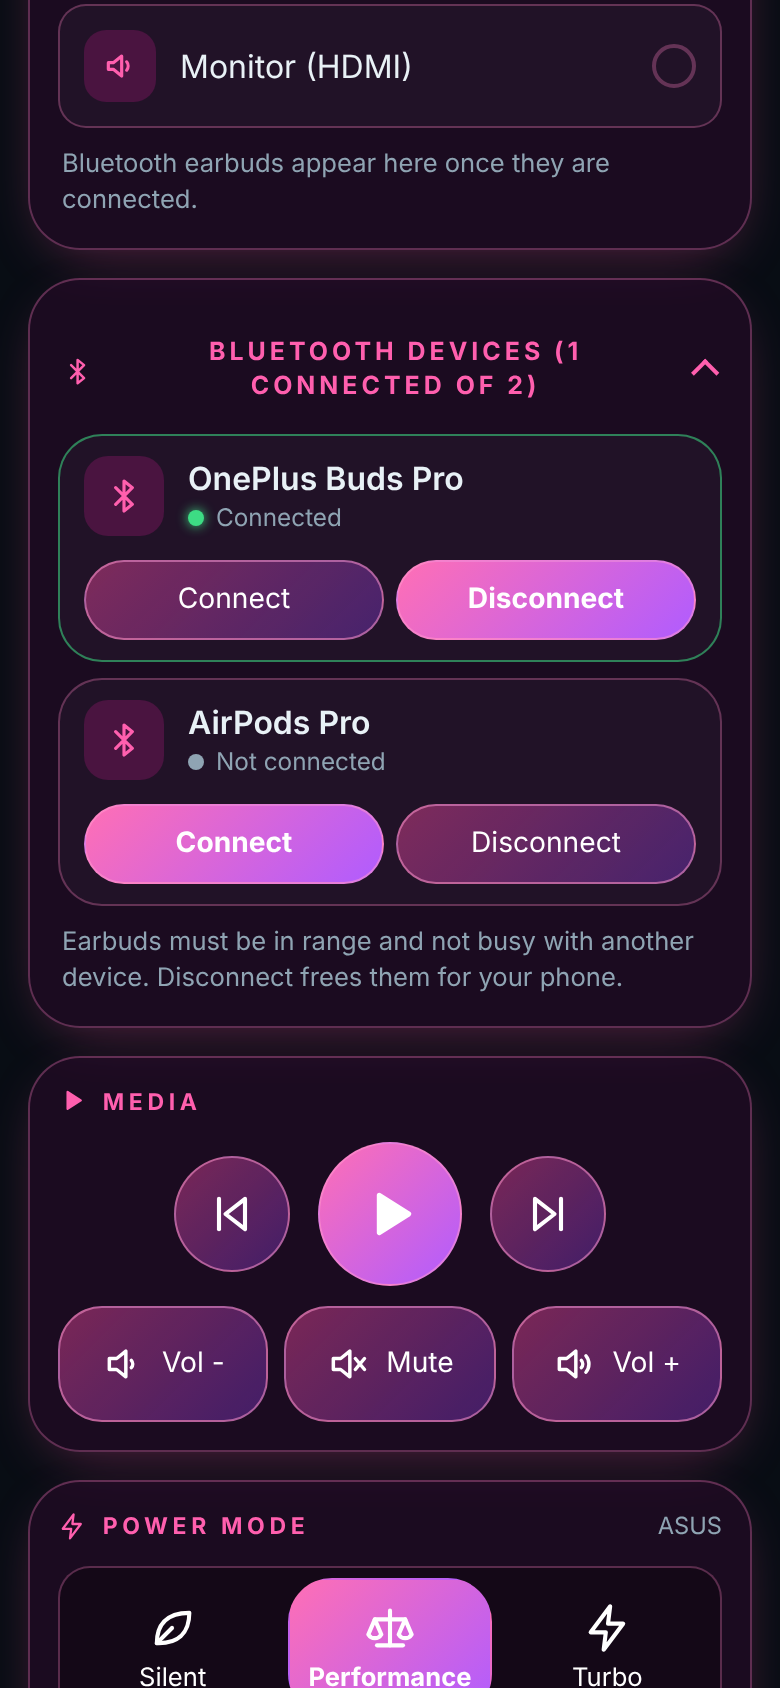
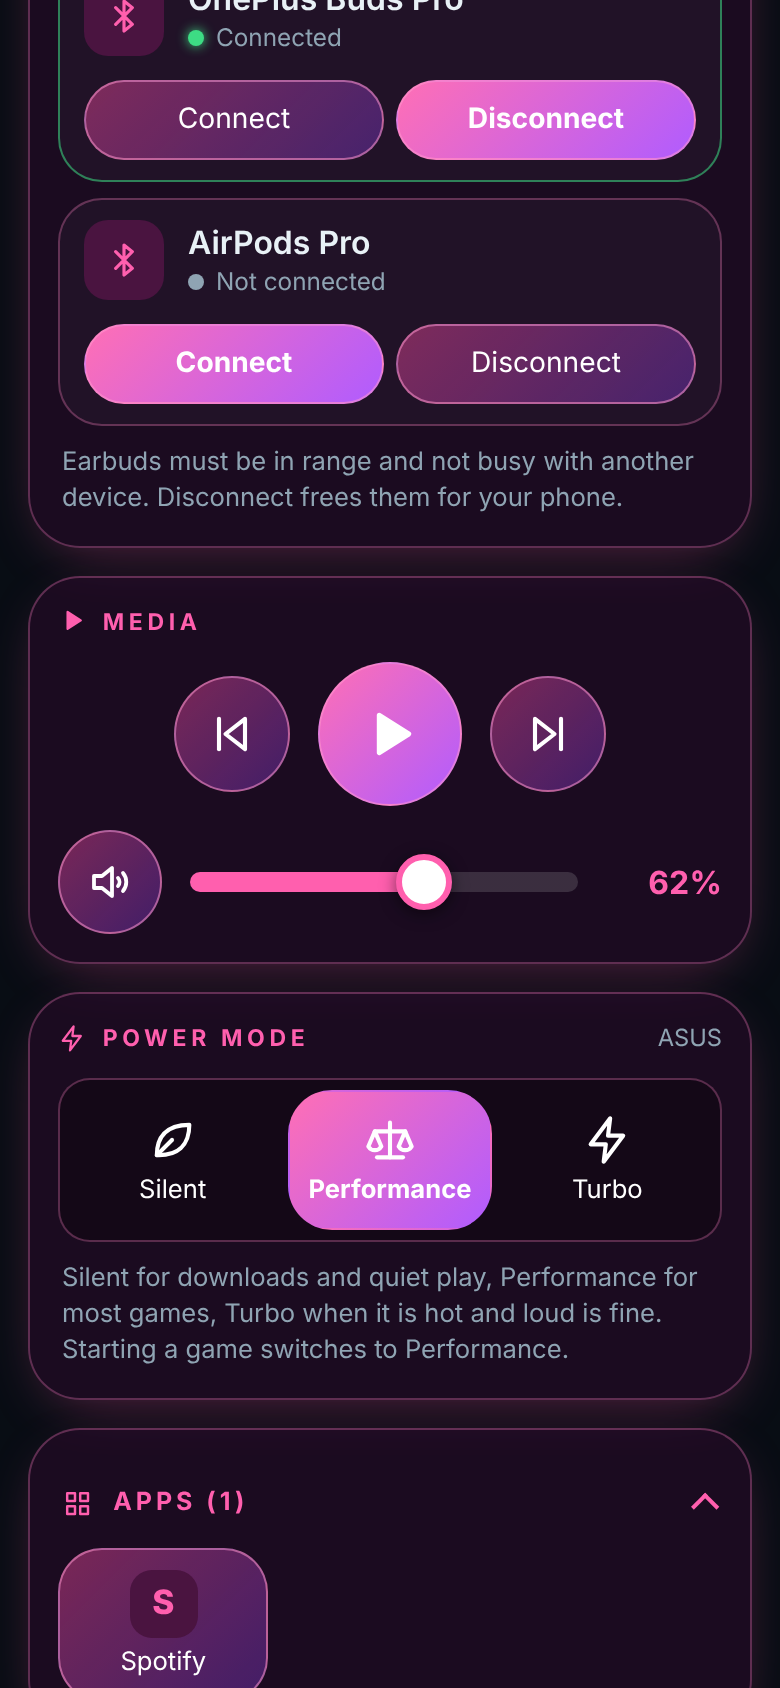
Volume slider with the real level and a mute switch
Claude-Session: https://claude.ai/code/session_012UQxDSXoho6XEbKP234m17

diff --git a/src/web/app.js b/src/web/app.js
@@ -637,9 +637,56 @@ function render() {
     }
     tr.append(mk('prev', 'media_prev', '', 'Previous'), mk('play', 'media_playpause', 'go main', 'Play or pause'), mk('next', 'media_next', '', 'Next'))
     media.append(tr)
-    const vol = el('div', 'vol')
-    vol.append(tile('voldown', 'Vol -', run('volume_down'), { cls: 'small' }), tile('mute', 'Mute', run('mute'), { cls: 'small' }), tile('volup', 'Vol +', run('volume_up'), { cls: 'small' }))
-    media.append(vol)
+    // A real volume slider (0 to 100) with the level shown, and a mute switch. Older PCs that cannot report a level keep the three keys.
+    if (pc.volume) {
+      const row = el('div', 'volrow')
+      const mute = el('button', 'b pwr' + (pc.volume.muted ? ' on' : ''))
+      mute.type = 'button'
+      mute.title = pc.volume.muted ? 'Sound is muted: tap to turn it on' : 'Mute'
+      mute.setAttribute('aria-label', mute.title)
+      mute.append(icon(pc.volume.muted ? 'mute' : 'volup'))
+      mute.addEventListener('click', () => act('mute_set', pc.volume.muted ? 'off' : 'on'))
+      const slider = el('input', 'slider')
+      slider.type = 'range'
+      slider.min = '0'
+      slider.max = '100'
+      slider.step = '1'
+      slider.value = String(pc.volume.level)
+      slider.setAttribute('aria-label', 'Volume')
+      const label = el('div', 'vollabel', pc.volume.muted ? 'Muted' : pc.volume.level + '%')
+      const fill = () => slider.style.setProperty('--fill', slider.value + '%')
+      fill()
+      slider.addEventListener('pointerdown', () => {
+        document.body.dataset.gesture = 'volume'
+      })
+      const stop = () => {
+        if (document.body.dataset.gesture === 'volume') delete document.body.dataset.gesture
+      }
+      slider.addEventListener('pointerup', stop)
+      slider.addEventListener('pointercancel', stop)
+      slider.addEventListener('input', () => {
+        label.textContent = slider.value + '%'
+        fill()
+      })
+      // Sent when the finger lifts (and while dragging, at most every 200 ms), so the PC is not flooded.
+      let last = 0
+      slider.addEventListener('input', () => {
+        const now = Date.now()
+        if (now - last < 200) return
+        last = now
+        call('/api/do', { action: 'volume_set', arg: Number(slider.value) }).catch(() => {})
+      })
+      slider.addEventListener('change', () => {
+        act('volume_set', Number(slider.value))
+        stop()
+      })
+      row.append(mute, slider, label)
+      media.append(row)
+    } else {
+      const vol = el('div', 'vol')
+      vol.append(tile('voldown', 'Vol -', run('volume_down'), { cls: 'small' }), tile('mute', 'Mute', run('mute'), { cls: 'small' }), tile('volup', 'Vol +', run('volume_up'), { cls: 'small' }))
+      media.append(vol)
+    }
     mediaCard = media
 
     // -- bluetooth devices -----------------------------------------------------------------

diff --git a/src/web/app.css b/src/web/app.css
@@ -227,3 +227,12 @@ select.field{max-width:190px}
 .b.busy svg{opacity:.25}
 .b.busy::after{content:"";position:absolute;top:50%;left:50%;width:22px;height:22px;margin:-11px 0 0 -11px;border:3px solid var(--line);border-top-color:var(--a);border-radius:50%;animation:rspspin .8s linear infinite}
 @keyframes rspspin{to{transform:rotate(360deg)}}
+.volrow{display:flex;align-items:center;gap:12px;margin-top:12px}
+.volrow .b.pwr{flex:0 0 52px;width:52px;height:52px}
+.volrow .vollabel{flex:0 0 3.6em;text-align:right;font-weight:700;color:var(--a);font-variant-numeric:tabular-nums}
+.slider{-webkit-appearance:none;appearance:none;flex:1;min-width:0;height:34px;background:transparent;touch-action:pan-y;cursor:pointer}
+.slider::-webkit-slider-runnable-track{height:10px;border-radius:999px;background:linear-gradient(90deg,var(--a) var(--fill,0%),rgba(255,255,255,.14) var(--fill,0%))}
+.slider::-moz-range-track{height:10px;border-radius:999px;background:rgba(255,255,255,.14)}
+.slider::-moz-range-progress{height:10px;border-radius:999px;background:var(--a)}
+.slider::-webkit-slider-thumb{-webkit-appearance:none;appearance:none;width:28px;height:28px;margin-top:-9px;border-radius:50%;background:#fff;border:3px solid var(--a);box-shadow:0 2px 8px rgba(0,0,0,.5)}
+.slider::-moz-range-thumb{width:22px;height:22px;border-radius:50%;background:#fff;border:3px solid var(--a)}

diff --git a/context.md b/context.md
@@ -176,3 +176,6 @@ Rules: one logical change per commit; run the tests before pushing; keep PowerSh
 - DECISION after 3 identical reports (Ally always answered mode value 3): the ASUS buttons are offered ONLY when probe=yes AND get returns 0, 1 or 2; otherwise (e.g. the Ally) the page keeps the Windows modes (Efficiency/Balanced/Performance) and never writes to ATKACPI. Ally support would need its own numbers/device ids (G-Helper Ally code), not researched yet. ROG/TUF untested.
 
 - CORRECTION (2026-11-20): both "mode value 3" reports came from the LAPTOPS (the ROG with Node 25 and the TUF with Node 22; their addresses are in the private vault, not here), NOT the Ally; the Ally (address in the vault) was never tested. Rule changed: ASUS buttons are offered when the device opens and the mode is 0..4 (3 = full speed, 4 = manual per G-Helper), so a laptop in mode 3/4 can be switched out of it. Pending: owner to test Silent/Performance/Turbo on ROG and TUF and the Ally.
+
+## Volume slider (owner, 2026-11-20)
+- Media card: Vol-/Mute/Vol+ keys replaced by a real slider (0-100, shows the level) + a mute switch (speaker icon). actions volume_set (int 0-100) and mute_set (on/off) use Windows Core Audio (IAudioEndpointVolume via volumeScript, default speaker); info.volume {level, muted} (cached 3 s). Sent while dragging at most every 200 ms and on release; moving the slider above 0 unmutes. A PC that cannot report a level (info.volume null) keeps the three keys. Untested on real Windows (CI parses the script).
